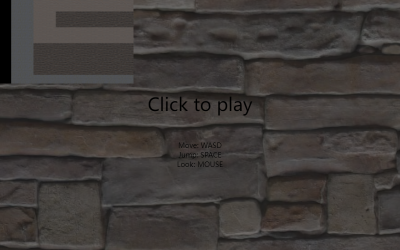
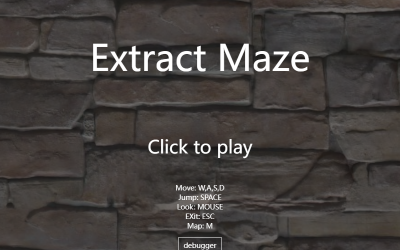
feat: :sparkles: finish maze

diff --git a/src/cannon/maze3D.js b/src/cannon/maze3D.js
@@ -2,7 +2,7 @@
  * @Author: wuyifan0203 1208097313@qq.com
  * @Date: 2024-11-15 10:25:55
  * @LastEditors: wuyifan0203 1208097313@qq.com
- * @LastEditTime: 2024-12-02 18:13:24
+ * @LastEditTime: 2024-12-03 15:44:10
  * @FilePath: \threejs-demo\src\cannon\maze3D.js
  * Copyright (c) 2024 by wuyifan email: 1208097313@qq.com, All Rights Reserved.
  */
@@ -23,7 +23,7 @@ import {
     ShaderMaterial,
     Color,
     Matrix4,
-    PlaneGeometry
+    PlaneGeometry,
 } from '../lib/three/three.module.js';
 import {
     initRenderer,
@@ -38,13 +38,15 @@ import {
     initGUI,
     clamp,
     symbolFlag,
-    initSky
+    initSky,
+    HALF_PI
 } from '../lib/tools/index.js';
 import { MazeGeometry } from '../lib/custom/MazeGeometry.js';
 import { PointerLockControls } from '../lib/three/PointerLockControls.js'
 import { Octree } from '../lib/three/Octree.js';
 import { Capsule } from '../lib/three/Capsule.js';
-import { OctreeHelper } from '../lib/three/OctreeHelper.js'
+import { OctreeHelper } from '../lib/three/OctreeHelper.js';
+import { FullScreenQuad } from '../lib/three/Pass.js';
 
 const layerMap = {
     ALL: 7,
@@ -89,6 +91,8 @@ async function init() {
     scene.add(player);
 
     const viewPort = createSideViewPort();
+    viewPort.changeVisible(false);
+
     const mapViewPort = createMapViewPort();
 
     resize(renderer, [player.eye], viewPort.resize)
@@ -104,6 +108,14 @@ async function init() {
         renderer.setAnimationLoop(render);
     });
 
+    const debuggerBtn = document.getElementById('debuggerBtn');
+    let trigger = false;
+    debuggerBtn.addEventListener('click', (event) => {
+        event.stopPropagation();
+        trigger = !trigger;
+        trigger ? gui.show() : gui.hide();
+    })
+
     player.controls.addEventListener('unlock', function () {
         blocker.style.display = 'block';
         renderer.setAnimationLoop(null);
@@ -111,24 +123,32 @@ async function init() {
 
     window.addEventListener('keyup', (evt) => {
         player.keyUp(evt);
+        if (evt.key.toLowerCase() === 'm') mapViewPort.needsRender = false;
     })
 
     window.addEventListener('keydown', (evt) => {
         player.keyDown(evt);
-        if (evt.key.toLowerCase() === 'q') collisionTest();
+        if (evt.key.toLowerCase() === 'm') mapViewPort.needsRender = true;
     })
 
     const octreeHelper = new OctreeHelper(octree);
     octreeHelper.visible = false;
     scene.add(octreeHelper);
 
+    const params = {
+        showSide: false
+    };
+
     const gui = initGUI();
+    gui.hide();
     gui.add(octreeHelper, 'visible').name('Octree Helper');
-    gui.add({ text: 'press Q to test collision' }, 'text')
+    gui.add(params, 'showSide').name('show side').onChange((flag) => {
+        viewPort.changeVisible(flag);
+    })
 
     function createSideViewPort() {
         const s = 15, aspect = window.innerWidth / window.innerHeight;
-        const camera = new OrthographicCamera(-s, s, s * aspect, -s * aspect, 0.01, 500);
+        const camera = new OrthographicCamera(-s, s, s * aspect, -s * aspect, 1, 500);
         camera.layers.mask = layerMap.DEBUG;
 
         const renderer = new WebGLRenderer({ antialias: true });
@@ -146,44 +166,39 @@ async function init() {
             camera.top = s * camera.aspect;
             camera.bottom = -s * camera.aspect;
             camera.updateProjectionMatrix();
-            console.log(camera);
         }
 
-        // / 方案
-        // const direction = new Vector3();
-        // const distance = 5;
-        // player.add(camera);
-        // const target = new Vector3();
+        const distance = 30;
+        const direction = new Vector3();
+        function updateCameraPos() {
+            direction.copy(player.eyeDirection);
+            direction.y = 0;
+            direction.normalize();
+            // 计算相机target的位置，在player的位置上加上视野方向的一段距离，在player之前
+            camera.position.copy(player.position).add(direction.multiplyScalar(-distance));
+            // 固定高度
+            camera.position.y = 50;
+            camera.lookAt(player.position);
+            camera.updateProjectionMatrix();
+        }
+        let visible = false;
 
-        // function updateCameraPos() {
-        //    //获取相机的方向
-        //     player.eye.getWorldDirection(direction);
-        //     // 清楚y轴分量
-        //     direction.y = 0;
-        //     // 计算相机target的位置，在player的位置上加上视野方向的一段距离，在player之前
-        //     target.copy(player.position).add(direction.normalize().multiplyScalar(distance));
-        //     // 计算相机位置，基于player位置，在player之后，距离player的距离为distance,与视野方向相反
-        //     camera.position.copy(player.position).add(direction.negate().multiplyScalar(distance));
-        //      // 固定高度
-        //     camera.position.y = 15;
-        //     camera.lookAt(target);
-        //     camera.updateProjectionMatrix();
-
-        //     console.log(camera.position, target);
-
-        // }
-
-        //零时方案
-        player.eye.add(camera);
-        camera.zoom = 0.5;
-        camera.position.set(-15, 15, 0);
-        camera.lookAt(0, 0, 0)
-        camera.updateProjectionMatrix();
         return {
+            changeVisible(flag) {
+                visible = flag;
+                dom.style.display = visible ? 'block' : 'none';
+                if (flag) {
+                    resize();
+                    updateCameraPos();
+                    renderer.render(scene, camera);
+                }
+            },
             resize,
-            render(scene) {
-                // updateCameraPos();
-                renderer.render(scene, camera);
+            render() {
+                if (visible) {
+                    updateCameraPos();
+                    renderer.render(scene, camera);
+                }
             }
         }
     }
@@ -194,10 +209,29 @@ async function init() {
         const ctx = canvas.getContext('2d');
         maze.mesh.geometry.maze.draw(ctx);
 
-        const scene = initScene();
-        scene.background = new CanvasTexture(canvas);
+        const fullScreen = new FullScreenQuad(
+            new ShaderMaterial({
+                uniforms: {
+                    tDiffuse: { value: new CanvasTexture(canvas) }
+                },
+                vertexShader:/*glsl*/`
+                varying vec2 vUv;
+                    void main(){
+                        vUv = uv;
+                        gl_Position = projectionMatrix * modelViewMatrix * vec4(position, 1.0);
+                    }
+                `,
+                fragmentShader:/*glsl*/`
+                    uniform sampler2D tDiffuse;
+                    varying vec2 vUv;
+                    void main(){
+                        vec2 flippedUV = vec2(vUv.x, 1.0 - vUv.y);
+                        gl_FragColor = texture2D(tDiffuse, flippedUV);
+                    }
 
-        const camera = new OrthographicCamera(-1, 1, 1, -1, 0, 1);
+                `
+            })
+        )
 
         const material = new ShaderMaterial({
             uniforms: {
@@ -253,43 +287,35 @@ async function init() {
             `
         });
         const mark = new Mesh(new PlaneGeometry(1, 1), material);
-
-        const mark2 = new Mesh(new PlaneGeometry(1, 1), new MeshNormalMaterial());
-
         mark.scale.multiplyScalar(0.1);
-        mark2.scale.multiplyScalar(0.05);
-
-        scene.add(mark2);
-        scene.add(mark);
+        fullScreen._mesh.add(mark);
 
         const size = new Vector3();
         maze.mesh.geometry.boundingBox.getSize(size);
 
         const halfSize = new Vector2(size.x, size.z).multiplyScalar(0.5);
         const mat4 = new Matrix4().set(
-            0, 0, 1 / halfSize.y, 0, // 第一行
-            -1 / halfSize.x, 0, 0, 0, // 第二行
+            0, 0, 1 / halfSize.x, 0, // 第一行
+            1 / halfSize.y, 0, 0, 0, // 第二行
             0, 0, 0, 0,             // 第三行
             0, 0, 0, 1              // 第四行
         );
+
         const direction = new Vector3();
         function updatePoint() {
-            // 方块标记
-            mark2.position.copy(player.position).applyMatrix4(mat4);
             // 三角标记
             mark.position.copy(player.position).applyMatrix4(mat4);
-            // player.eye.getWorldDirection(direction);
-            // direction.y = 0;
-            // direction.normalize().multiplyScalar(1).add(player.position);
-            // direction.applyMatrix4(mat4);
-            // mark.lookAt(direction);
+            direction.copy(player.eyeDirection); // 获取相机的世界方向
+            const angleY = Math.atan2(direction.x, direction.z);
+            mark.rotation.z = angleY - HALF_PI;
         }
         return {
-            render() {
+            needsRender: false,
+            render(renderer) {
                 updatePoint();
                 renderer.setScissor(0, 0, 400, 400);
                 renderer.setViewport(0, 0, 400, 400);
-                renderer.render(scene, camera);
+                fullScreen.render(renderer);
             }
         }
     }
@@ -311,16 +337,11 @@ async function init() {
         eyeHelper.update();
         player.update(deltaTime);
         viewPort.render(scene);
-        mapViewPort.render();
+        mapViewPort.needsRender && mapViewPort.render(renderer);
         renderer.setScissorTest(false);
     }
     // 首次加载
     render();
-
-    function collisionTest() {
-        const result = octree.capsuleIntersect(player.shape);
-        console.log(result);
-    }
 }
 
 async function createMaze() {
@@ -460,6 +481,7 @@ class Player extends Mesh {
         this.gravity = -12;
 
         this.direction = new Vector3();
+        this.eyeDirection = new Vector3();
     }
 
     keyDown(event) {
@@ -477,6 +499,7 @@ class Player extends Mesh {
         this._updatePosition(dt);
         // 修复位置
         this._fixedPosition();
+        this.updateEyeDirection();
     }
 
     _updateVelocity(dt) {
@@ -518,5 +541,8 @@ class Player extends Mesh {
             this.shape.translate(this.deltaPos);
         }
 
+    }
+    updateEyeDirection() {
+        this.eye.getWorldDirection(this.eyeDirection)
     }
 }

diff --git a/src/cannon/maze3D.html b/src/cannon/maze3D.html
@@ -2,7 +2,7 @@
  * @Author: wuyifan0203 1208097313@qq.com
  * @Date: 2024-11-15 10:26:07
  * @LastEditors: wuyifan0203 1208097313@qq.com
- * @LastEditTime: 2024-11-29 17:57:34
+ * @LastEditTime: 2024-12-03 13:32:43
  * @FilePath: \threejs-demo\src\cannon\maze3D.html
  * Copyright (c) 2024 by wuyifan email: 1208097313@qq.com, All Rights Reserved.
 -->
@@ -44,13 +44,16 @@
   <body>
     <div id="blocker">
       <div id="instructions">
+        <p style="font-size: 72px">Extract Maze</p>
         <p style="font-size: 36px">Click to play</p>
         <p>
           Move: W,A,S,D<br />
-          Jump: SPACE (to do)<br />
+          Jump: SPACE <br />
           Look: MOUSE <br/>
           EXit: ESC <br/>
+          Map: M <br/>
         </p>
+        <div style="padding: 5px 10px;border: 1px solid #ffffff;" id="debuggerBtn"> debugger </div>
       </div>
     </div>
     <div id="webgl-output"></div>

diff --git a/src/shader/audioContext.html b/src/shader/audioContext.html
@@ -1,3 +1,11 @@
+<!--
+ * @Author: wuyifan0203 1208097313@qq.com
+ * @Date: 2024-10-16 13:45:03
+ * @LastEditors: wuyifan0203 1208097313@qq.com
+ * @LastEditTime: 2024-10-16 13:45:03
+ * @FilePath: \threejs-demo\src\shader\audioContext.html
+ * Copyright (c) 2024 by wuyifan email: 1208097313@qq.com, All Rights Reserved.
+-->
 <!DOCTYPE html>
 <html lang="en">
 <head>
